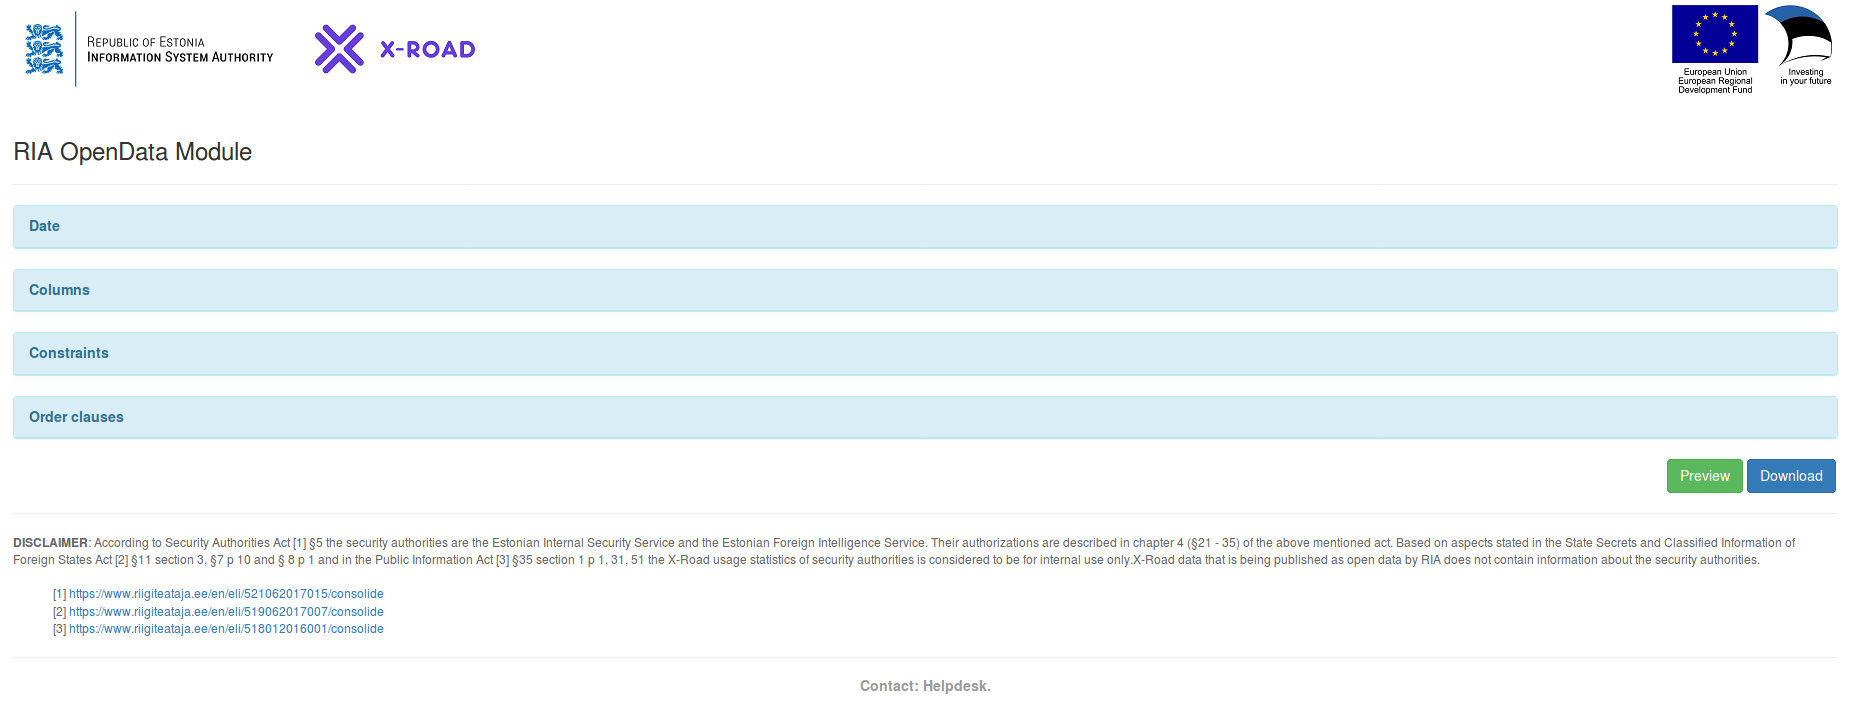
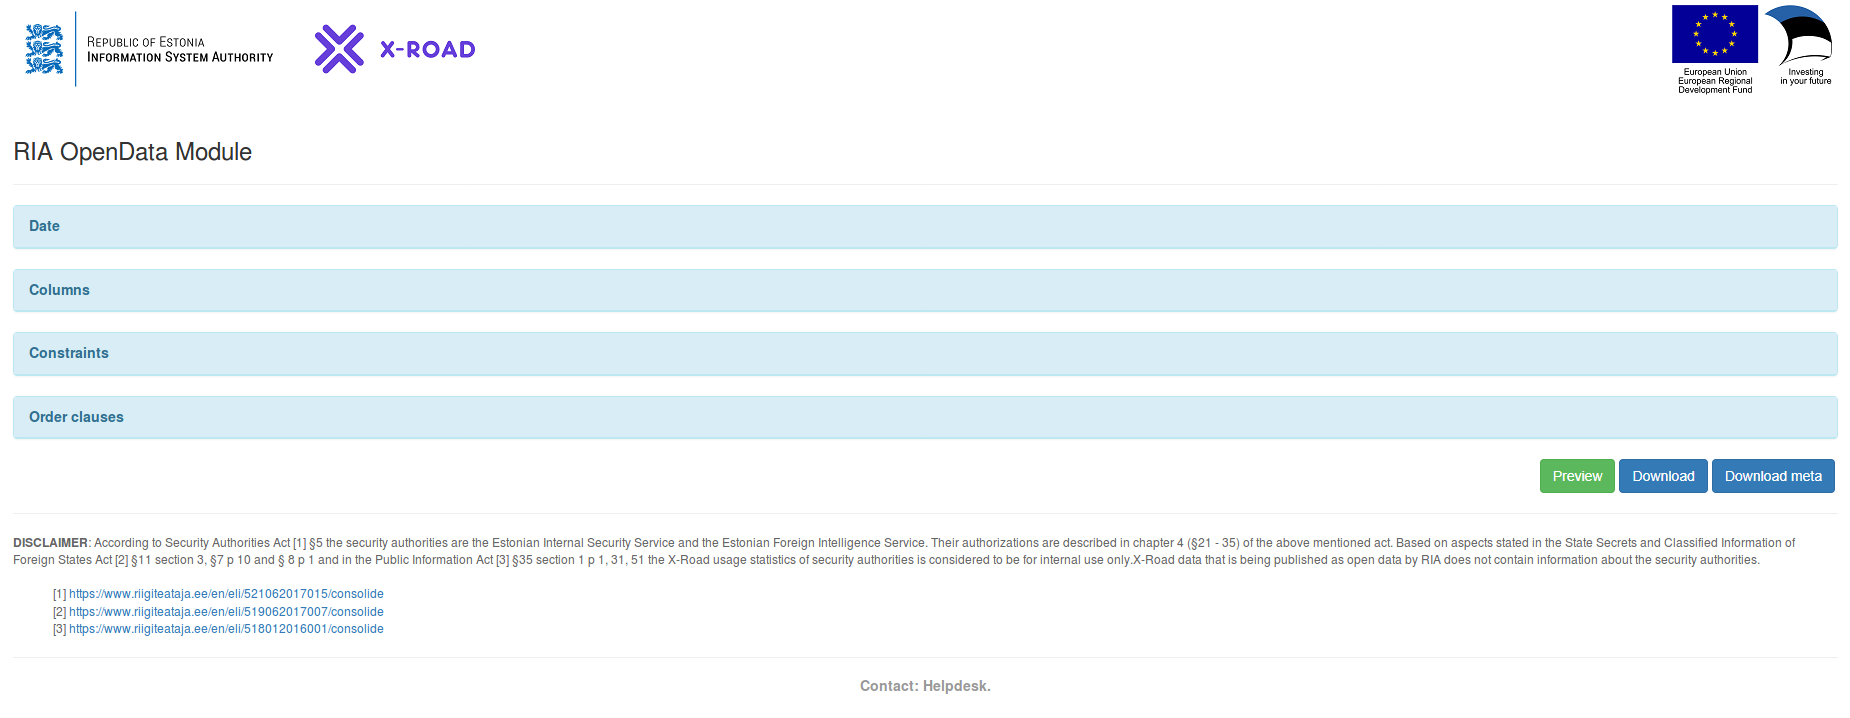
documentation update for opendata daily logs

Changed region(s): [[0.8319, 0.6128, 0.9859, 0.7047]]

diff --git a/docs/opendata/user_guide/ug_opendata_api.md b/docs/opendata/user_guide/ug_opendata_api.md
@@ -17,7 +17,8 @@ In order to achieve that, handlers allow to query the following data:
 
 * Minimum and maximum date of the available logs;
 * Column names, types, descriptions and available oeprators;
-* All daily logs in **tar.gz** format;
+* All daily logs in **ndjson.gz** format;
+* Meta (description) file for daily logs;
 * Sample logs for a day in **JSON** format.
 
 
@@ -236,10 +237,7 @@ curl --request --url "${URL}/api/logs_sample" \
 
 ### Daily logs
 
-Retrieve all logs for a specified date in a **tar.gz** archive. The archive consists of two files:
-
-* **YYYY-MM-DD.json**
-* **meta.json**
+Retrieve all logs for a specified date in a **ndjson.gz** archive. The archive is gzipped NDJSON (Newline Delimited JSON) file.
 
 #### Parameters
 
@@ -247,7 +245,7 @@ Identical to [logs' sample](#logs-sample).
 
 #### Returns
 
-Binary file with MIME type "application/gzip".
+Binary file with MIME type "application/gzip" containing gzipped NDJSON file.
 
 #### Example query
 
@@ -256,17 +254,13 @@ GET version:
 ```bash
 # export DATE=$(date -d "10 days ago" '+%Y-%m-%d')
 
-TEMPFILE=$(tempfile)
+LOGFILE="${DATE}.ndjson"
 curl --get --url "${URL}/api/daily_logs" \
     --data-urlencode "date=${DATE}" \
     --data-urlencode "columns=[\"id\", \"requestInDate\", \"responseAttachmentCount\", \"succeeded\", \"totalDuration\"]" \
     --data-urlencode "constraints=[{\"column\": \"totalDuration\", \"operator\": \"<=\", \"value\": \"150\"}]" \
-    --data-urlencode "order-clauses=[{\"column\": \"totalDuration\", \"order\": \"asc\"}]"
-    > ${TEMPFILE}
-
-tar tzvf ${TEMPFILE} # See download content
-# tar xzvf ${TEMPFILE} # Unpack / extract download content
-/bin/rm --force ${TEMPFILE}
+    --data-urlencode "order-clauses=[{\"column\": \"totalDuration\", \"order\": \"asc\"}]" \
+    | gunzip > ${LOGFILE}
 ```
 
 There's also a POST version:
@@ -274,16 +268,55 @@ There's also a POST version:
 ```bash
 # export DATE=$(date -d "10 days ago" '+%Y-%m-%d')
 
-TEMPFILE=$(tempfile)
+LOGFILE="${DATE}.ndjson"
 curl --request --url "${URL}/api/daily_logs" \
     --header "Content-Type:application/json" \
     --data "{\"date\": \"${DATE}\", \
            \"columns\": [\"id\", \"requestInDate\", \"responseAttachmentCount\", \"succeeded\", \"totalDuration\"], \
            \"constraints\": [{\"column\": \"totalDuration\", \"operator\": \"<=\", \"value\": \"150\"}], \
            \"order-clauses\": [{\"column\": \"totalDuration\", \"order\": \"asc\"}]}" \
-    > ${TEMPFILE}
+    | gunzip > ${LOGFILE}
+```
 
-tar tzvf ${TEMPFILE} # See download content
-# tar xzvf ${TEMPFILE} # Unpack / extract download content
-/bin/rm --force ${TEMPFILE}
+### Daily logs meta
+
+Retrieve meta (description) file for daily logs in **JSON** fromat.
+
+#### Parameters
+
+Identical to [logs' sample](#logs-sample).
+
+#### Returns
+
+JSON file with MIME type "application/json".
+
+#### Example query
+
+GET version:
+
+```bash
+# export DATE=$(date -d "10 days ago" '+%Y-%m-%d')
+
+METAFILE=meta.json
+curl --get --url "${URL}/api/daily_logs_meta" \
+    --data-urlencode "date=${DATE}" \
+    --data-urlencode "columns=[\"id\", \"requestInDate\", \"responseAttachmentCount\", \"succeeded\", \"totalDuration\"]" \
+    --data-urlencode "constraints=[{\"column\": \"totalDuration\", \"operator\": \"<=\", \"value\": \"150\"}]" \
+    --data-urlencode "order-clauses=[{\"column\": \"totalDuration\", \"order\": \"asc\"}]" \
+    > ${METAFILE}
+```
+
+There's also a POST version:
+
+```bash
+# export DATE=$(date -d "10 days ago" '+%Y-%m-%d')
+
+METAFILE=meta.json
+curl --request --url "${URL}/api/daily_logs_meta" \
+    --header "Content-Type:application/json" \
+    --data "{\"date\": \"${DATE}\", \
+           \"columns\": [\"id\", \"requestInDate\", \"responseAttachmentCount\", \"succeeded\", \"totalDuration\"], \
+           \"constraints\": [{\"column\": \"totalDuration\", \"operator\": \"<=\", \"value\": \"150\"}], \
+           \"order-clauses\": [{\"column\": \"totalDuration\", \"order\": \"asc\"}]}" \
+    > ${METAFILE}
 ```

diff --git a/docs/opendata/user_guide/ug_opendata_interface.md b/docs/opendata/user_guide/ug_opendata_interface.md
@@ -90,7 +90,4 @@ we should see:
 
 ## Downloading
 
-When clicking on "Download" instead of "Preview", the browser should initiate a file download. The contents should look similar to
-
-![Interface datetimepicker](../../img/opendata/6_interface_download_content.png
- "Interface datetimepicker")
+When clicking on "Download" instead of "Preview", the browser should initiate a file download. Description for the logs file can be downloaded by clicking on "Download meta".
